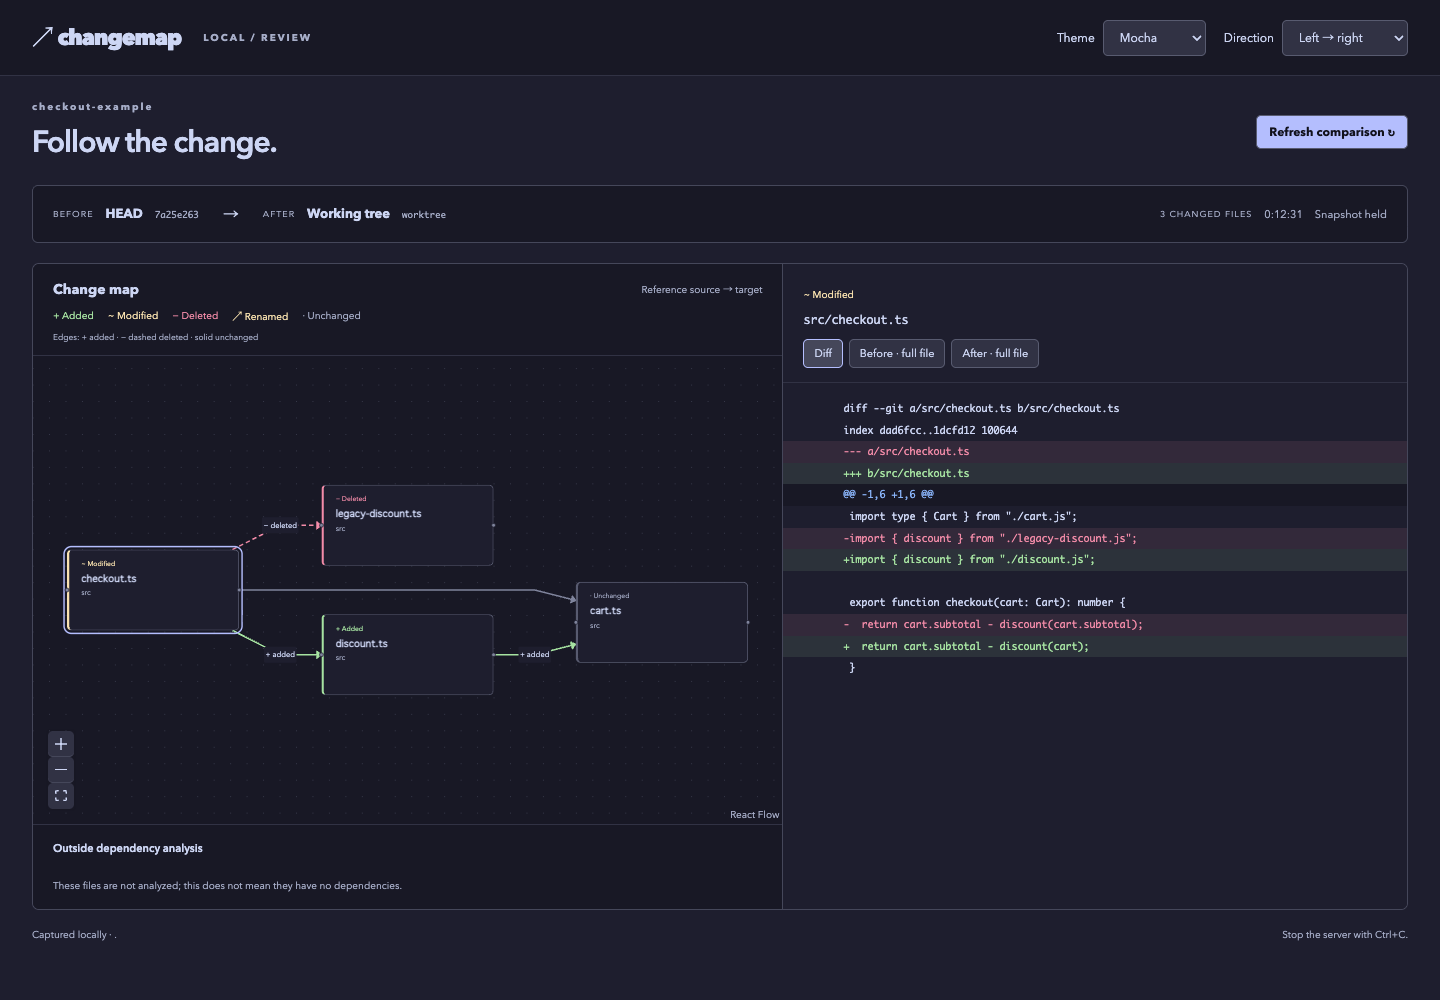
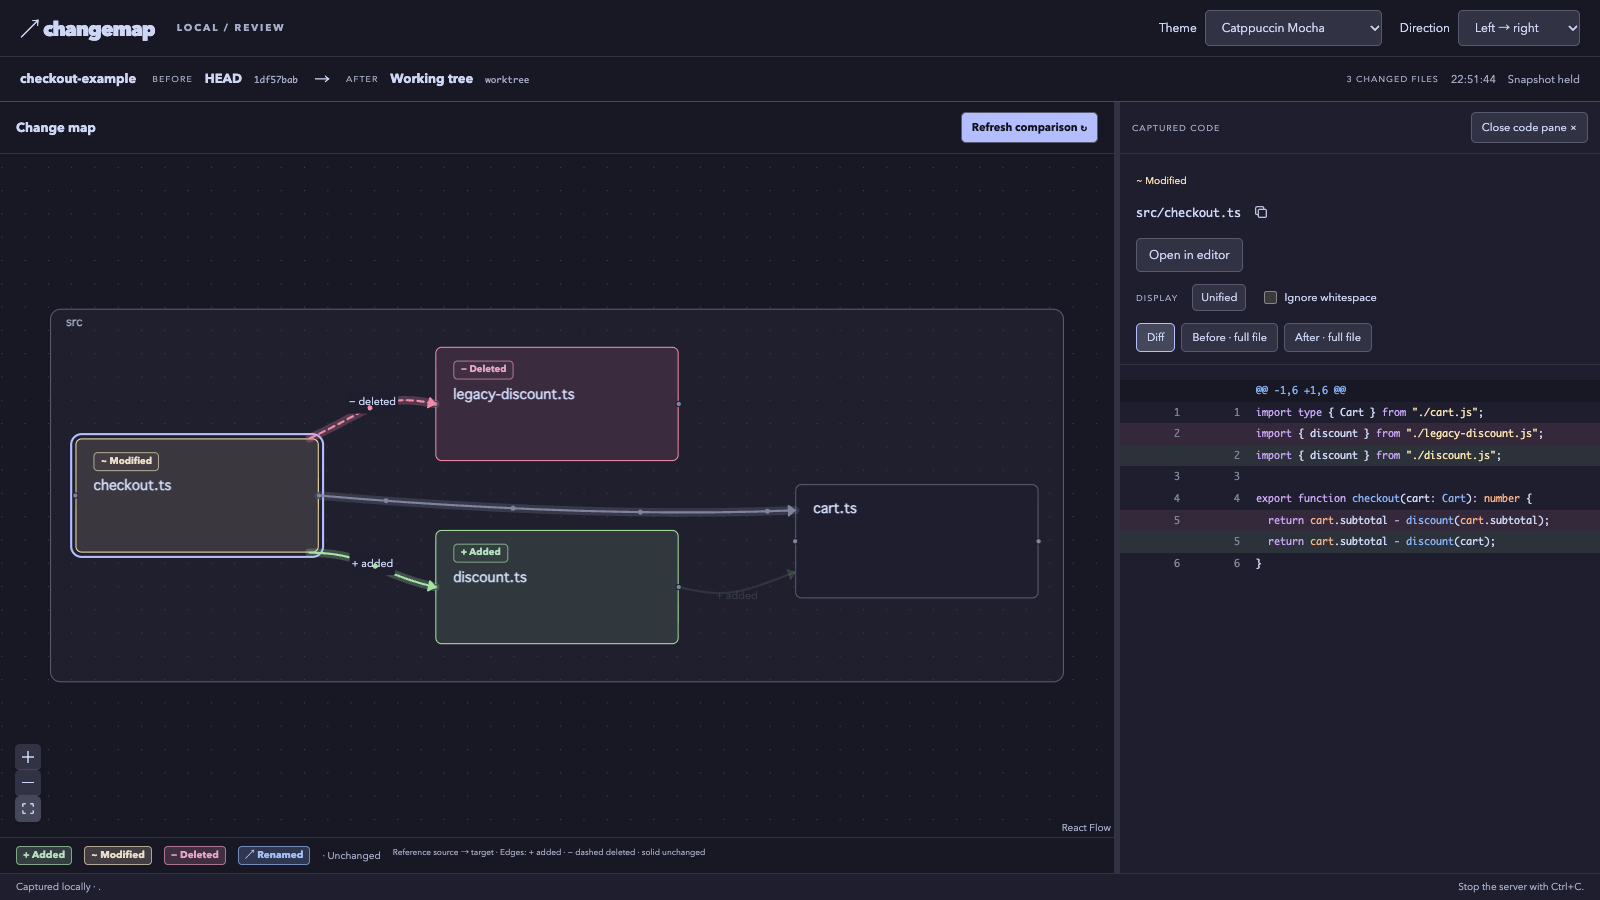
docs(readme): 現行UIとPR #18までの変更を反映

diff --git a/README.md b/README.md
@@ -5,7 +5,7 @@ Understand code changes through file dependency maps.
 Review local Git changes in your browser. See which TypeScript files depend on
 changed code, follow added or removed dependencies, and read diffs alongside the map.
 
-![A sample checkout change: checkout.ts switches from legacy-discount.ts to discount.ts, with the dependency map beside its diff.](https://raw.githubusercontent.com/tapioca24/changemap/main/.github/assets/changemap.png)
+![Current review screen: checkout.ts switches from legacy-discount.ts to discount.ts, with added and deleted dependencies beside its code diff.](https://raw.githubusercontent.com/tapioca24/changemap/main/.github/assets/changemap.png)
 
 ## Quick start
 
@@ -61,20 +61,13 @@ npx changemap --help
 - Changed TypeScript files appear with their direct dependencies and direct users
   from both sides of the comparison. Arrows point from the referencing file to
   its target. The map does not recursively expand the whole project.
-- File labels show added, modified, deleted, renamed, or unchanged status.
-  Added dependencies have a `+ added` label; removed dependencies have a
-  `− deleted` label and a dashed line.
-- Select a file to switch between **Diff**, **Before · full file**, and
-  **After · full file**, where available. Other changed files are listed under
-  **Outside dependency analysis**. Binary files have no text preview.
-- Select **Open in editor** in the code pane to open the file currently in the
-  working tree. This also works for unchanged dependency files. Historical or
-  staged contents may differ from the working tree; the pane points out a
-  difference. Files absent from the working tree cannot be opened.
-- Pan, zoom, or fit the map to explore it. File buttons also work with Enter or Space.
-- When files change, an update notice appears. Choose **Refresh comparison** to
-  replace the captured map and code. Until then, what you are reviewing stays
-  fixed. A failed refresh keeps the previous comparison.
+- Other changed files remain accessible under **Outside dependency analysis**.
+  PNG, JPEG, GIF, and WebP files show before/after image previews where available;
+  other binary files have no preview. The usage guide below lists preview limits.
+- **Ignore whitespace** changes only the displayed diff, not file statuses or
+  the dependency map.
+- The map and code stay fixed after capture. When files change, use **Refresh
+  comparison** to replace them; a failed refresh keeps the previous comparison.
 
 ### Open files in an editor
 
@@ -83,7 +76,7 @@ them for one run. The file path is appended as the last argument. Quote an
 executable path containing spaces. Commands run without a shell.
 
 ```sh
-changemap . --editor "code --reuse-window"
+npx changemap . --editor "code --reuse-window"
 ```
 
 Terminal editors such as `vim` open in the terminal where changemap was
